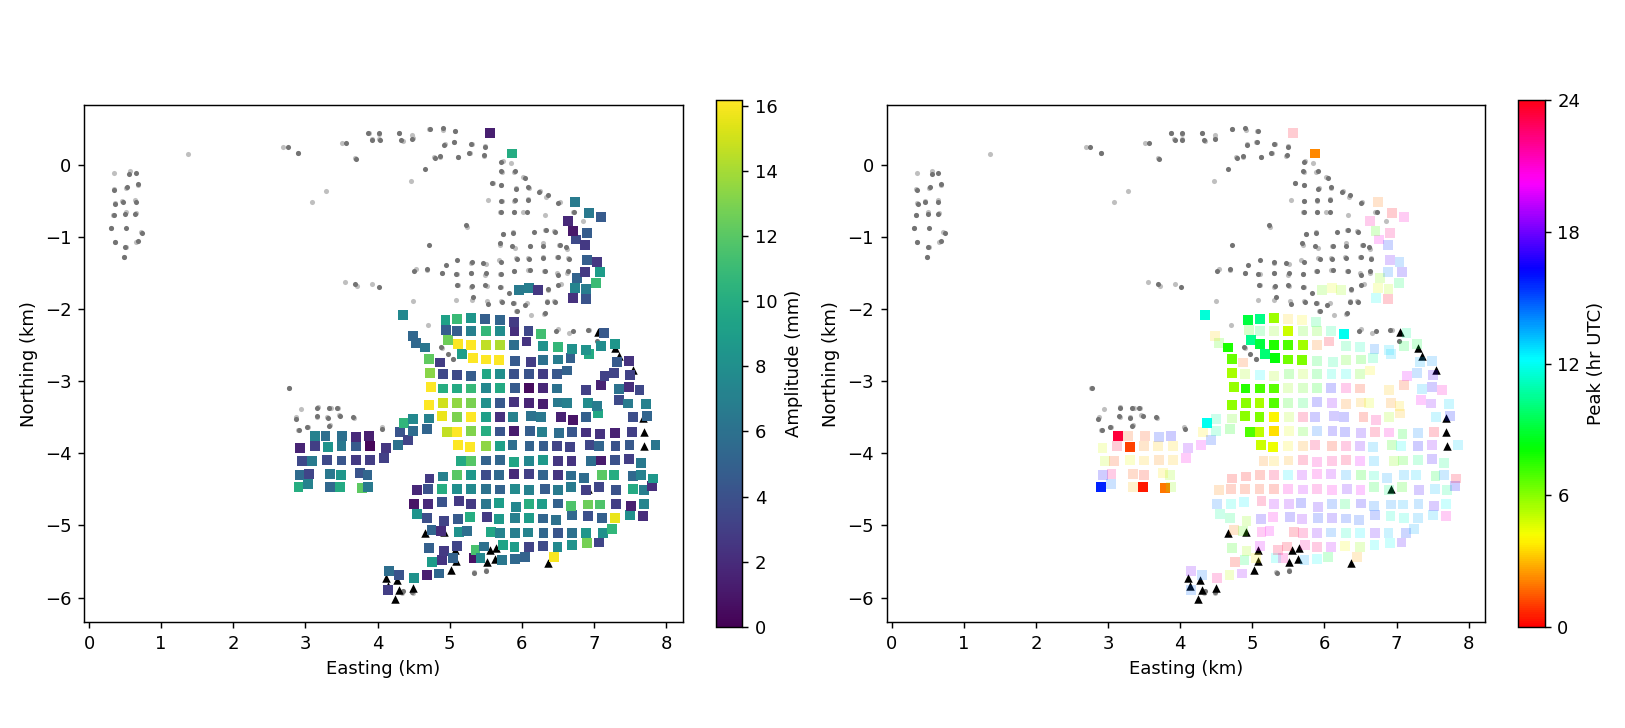
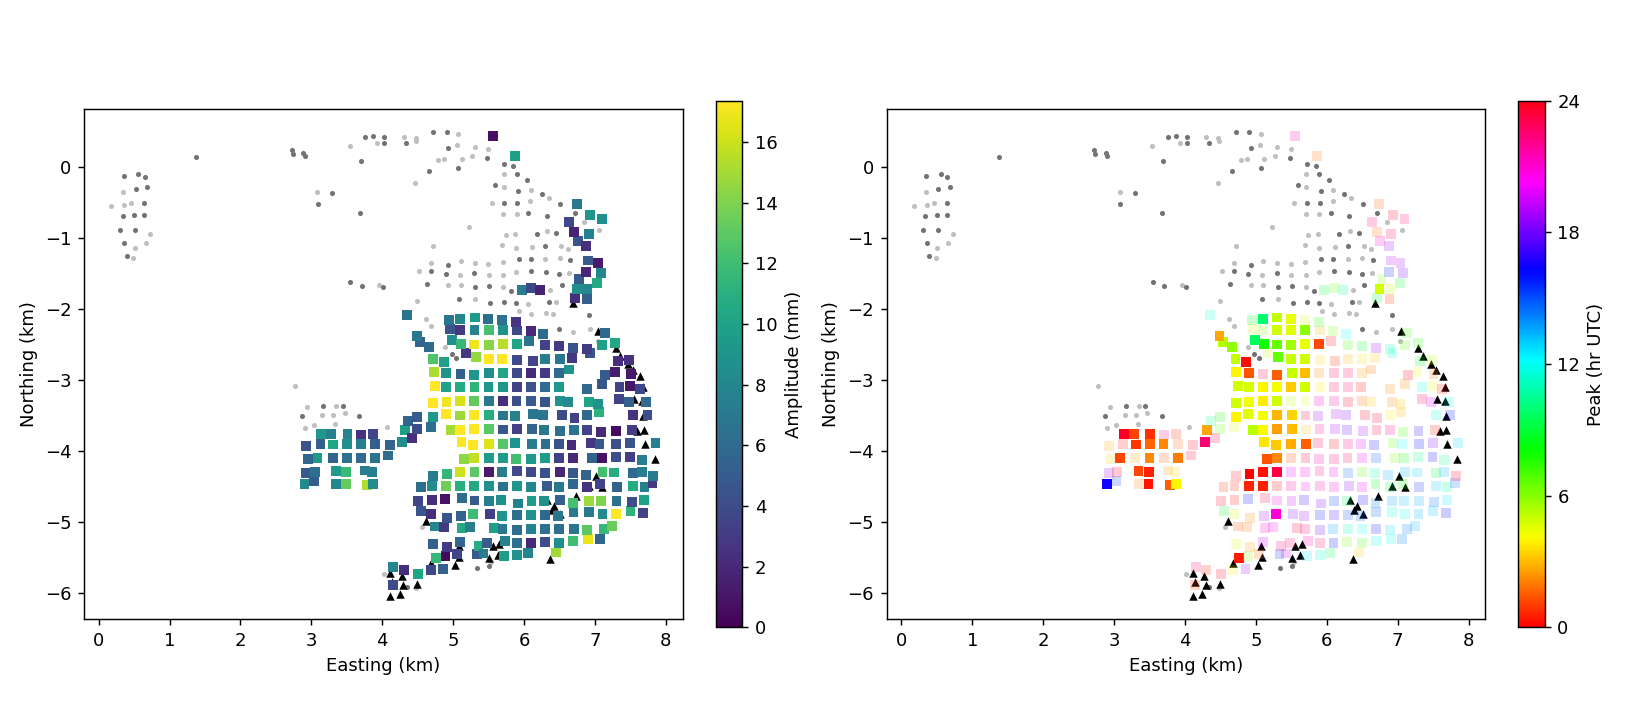
joint: rerun with the stable ground split by whole cells
The fit and held-out halves of the stable ground are now whole 200 m cells,
the ladder is scored on the mean of both antennas, and only the held-out
cells the stationarity calibration did not use are scored.  Every table in
docs/joint.md and figures 40 and 41 are from that rerun: the low held-out
rock scores 0.16-1.69 mm (0.04-0.35 with the pixel-by-pixel split), the far
scores rest on 1-3 cells, 43 of 90 candidate locations come out still, and
the classifier calls 74 % of untouched held-out rock and 20 % of ice still.
The defaults (candidates at or above 2300 m, one shared-noise level) are
re-checked against the alternatives on the new split.

diff --git a/docs/joint.md b/docs/joint.md
@@ -42,7 +42,7 @@ and the held-out half of the stable ground. The stable ground is split into
 its two halves by whole cells, drawn at random, so no held-out cell shares a
 cell with fit rock. Each antenna's series is reduced to one median per cell
 and epoch; a cell with no valid pixel at any epoch of either antenna is
-dropped, and `--stage cells` prints how many. Heights are the 2015 USGS lidar DEM
+dropped. Heights are the 2015 USGS lidar DEM
 (1 m, flown 26 August–27 September 2015; `GPRI_DEM_LIDAR`), with the
 Copernicus 30 m DEM where the lidar has no coverage. At every epoch each value
 of the fit rock, the ice and the candidates is
@@ -63,114 +63,109 @@ growth with range, shared noise) is chosen per campaign by marginal likelihood
 on the fit-half rock. The held-out rock never enters the solve. The path is
 predicted there afterwards, and the difference scores the model.
 
-The numbers in the tables below were computed with the stable ground split
-pixel by pixel; they are to be regenerated with the split by cell.
-
 ## Candidate reference ground
 
-Above 2300 m the reference has 4–7 cells per campaign. The candidates are
-coherent ground off the outlines that the reference rules exclude: inside the
-100 m outline buffer, or at mean coherence 0.6–0.85, at or above 2300 m (85–89
-cells per campaign; the cache keeps candidates of every height and
-`--cand-min-z` picks them). Each gets its own offset, rate and 24 h terms, and its own
-remainder, so a moving candidate describes itself instead of feeding the path.
+Above 2300 m the fit-half reference has 2–5 cells per campaign. The
+candidates are coherent ground off the outlines that the reference rules
+exclude: inside the 100 m outline buffer, or at mean coherence 0.6–0.85, at
+or above 2300 m (85–89 cells per campaign; the cache keeps candidates of
+every height and `--cand-min-z` picks them). Each gets its own offset, rate
+and 24 h terms, and its own remainder, so a moving candidate describes itself
+instead of feeding the path.
 
 Whether a candidate is stationary is decided once per ground location, from
 all seven campaigns together. The tripod position is the same to about 4 m in
 every campaign, so the cell lattice is shared.
 
 - **The stationary spread** for a candidate's motion terms is its own formal
-  variance from the solve, scaled by a factor measured on the held-out rock
-  (`calibrated_spike`). For that one calibration solve the held-out rock is
-  entered as free candidates, and the scored solve never contains it.
+  variance from the solve, scaled by a factor measured on held-out rock
+  (`calibrated_spike`). For that one calibration solve, every other held-out
+  cell is entered as a free candidate; the scored solve never contains them.
 - **Why per candidate.** A candidate beyond the rock carries the path field's
-  extrapolation error in its rate and harmonic. Held-out rock sitting among the
-  fit rock never sees that error.
+  extrapolation error in its rate and harmonic. Held-out rock near the fit
+  rock never sees that error.
 - **The decision.** A two-component mixture (still / moving) sums its
   evidence over campaigns (`shared_stationarity`). The posterior probability
   `p` then sets a prior precision `p / spread` on the candidate's motion terms
   and a remainder `(1 − p) a2`.
 
-The calibration factor itself is a measurement. Across the seven campaigns
-the formal variance of a held-out rock cell's motion terms under-states the
-truth by 14× to 520×, because the model treats path and remainder as
-independent between epochs:
+The calibration factor itself is a measurement. The formal variance of a
+held-out rock cell's motion terms under-states the truth by 15× to 420×,
+because the model treats path and remainder as independent between epochs:
 
 | campaign | path length | range growth | shared noise | calibration (rate, cos, sin) |
 |---|---:|---:|---:|---|
-| `20170713_full` | 500 m | 0.4 /km | 2× | 48, 14, 19 |
-| `20170803_full` | 1000 m | 0 | 2× | 68, 45, 32 |
-| `20170827` | 500 m | 0 | 2× | 518, 51, 77 |
-| `20170913` | 4000 m | 0 | 9× | 99 |
-| `20180709` | 1000 m | 0 | 2× | 77 |
-| `20180808` | 2000 m | 0.4 /km | 9× | 109, 29, 16 |
-| `20190719` | 1000 m | 0 | 2× | 218, 24, 54 |
+| `20170713_full` | 1000 m | 0.4 /km | 9× | 54, 16, 15 |
+| `20170803_full` | 1000 m | 0 | 2× | 156, 62, 66 |
+| `20170827` | 1000 m | 0.4 /km | 9× | 422, 52, 60 |
+| `20170913` | 4000 m | 0 | 9× | 79 |
+| `20180709` | 2000 m | 0 | 9× | 44 |
+| `20180808` | 2000 m | 0.4 /km | 9× | 154, 43, 25 |
+| `20190719` | 500 m | 0 | 2× | 157, 20, 27 |
 
-The calibration uses every other held-out cell; the rest are kept back to
-test the classification (below).
-
-Of 90 candidate locations, 25 come out stationary (p > 0.5): 9 of 28 at
-2300–2500 m, 16 of 48 at 2500–2900 m, none of 13 above 2900 m. They lie at
-2310–2830 m and 7.0–8.8 km slant range.
+Of 90 candidate locations, 43 come out stationary (p > 0.5): 16 of 31 at
+2300–2500 m, 23 of 44 at 2500–2900 m, 1 of 12 above 2900 m. They lie at
+2250–2940 m and 6.9–9.0 km slant range.
 
 ### How well it tells still ground from moving
 
 Ground whose state is known goes through the same mixture, which is not
-refitted for it. The test rock is the half of the held-out rock the
-calibration did not use (187 locations), and the moving ground is the ice
-(340 locations):
+refitted for it: the held-out cells the calibration did not use (176
+locations), and the ice (340 locations).
 
-| evidence used | held-out rock called still | ice called still |
-|---|---:|---:|
-| rate and 24 h terms (the default) | 79 % | 15 % |
-| rate only | 83 % | 23 % |
-| 24 h terms only | 40 % | 8 % |
+| | called still | below 2300 m | 2300–2500 m | above 2500 m |
+|---|---:|---:|---:|---:|
+| held-out rock | 74 % | 73 % of 165 | 3 of 3 | 7 of 8 |
+| ice | 20 % | 26 % of 203 | 17 % of 60 | 9 % of 77 |
 
-With the default, ice above 2500 m is called still at 3 % of 77 locations and
-at 2300–2500 m at 7 % of 60. Held-out rock below 2300 m is called still at
-79 % of 180. The probability, not the call, enters the final solve, as the
-prior precision and the remainder share.
+The evidence is the rate and the 24 h terms together. With the earlier
+pixel-by-pixel split, rate alone called more ice still (23 % against 15 %)
+and the 24 h terms alone called less rock still (40 % against 79 %). The
+probability, not the call, enters the final solve.
 
 ## Scores on held-out rock
 
-Anomaly RMS of the pixel-weighted mean series over the held-out cells (about
-each series' own secular line), and its 24 h amplitude, in mm. Only the
-held-out cells not used to calibrate the stationary spread are scored. Each
-row compares three products on the same cells: the ladder (run on each
-antenna, the two series averaged), the joint inversion without candidates,
-and with them. Both average the two antennas.
-
-The table below is from the earlier setup (all held-out cells, the ladder on
-the upper antenna) and is to be regenerated.
+The stable ground is split into its two halves by whole 200 m cells drawn at
+random, so no held-out cell shares a cell with fit rock. Each antenna's series
+is reduced to one median per cell and epoch, and a cell with no valid pixel at
+any epoch is dropped. Scored: the anomaly RMS of the pixel-weighted mean
+series over the held-out cells the calibration did not use (about each
+series' own secular line), and its 24 h amplitude, in mm. Each entry compares
+the ladder (run on each antenna, the two averaged), the joint inversion
+without candidates, and with them, on the same cells; all three average both
+antennas.
 
 | campaign | above 2500 m, RMS | above 2500 m, 24 h | below 2300 m, RMS | below 2300 m, 24 h |
 |---|---|---|---|---|
-| `20170713_full` | 4.30 / 3.76 / 3.50 | 2.49 / 4.65 / 4.40 | 0.36 / 0.23 / 0.22 | 0.28 / 0.14 / 0.14 |
-| `20170803_full` | 8.73 / 2.53 / 1.82 | 6.92 / 2.52 / 1.55 | 0.89 / 0.29 / 0.29 | 0.80 / 0.34 / 0.34 |
-| `20170827` | 9.36 / 2.61 / 2.85 | 3.01 / 0.48 / 0.53 | 0.89 / 0.27 / 0.27 | 0.51 / 0.07 / 0.07 |
-| `20170913` | 2.39 / 1.04 / 0.65 | — | 0.17 / 0.04 / 0.04 | — |
-| `20180709` | 4.11 / 0.99 / 0.76 | — | 0.21 / 0.23 / 0.23 | — |
-| `20180808` | 19.06 / 7.28 / 7.74 | 17.14 / 7.06 / 8.17 | 0.45 / 0.34 / 0.35 | 0.45 / 0.11 / 0.10 |
-| `20190719` | 9.57 / 6.44 / 5.90 | 10.41 / 7.75 / 7.36 | 0.73 / 0.21 / 0.21 | 0.89 / 0.15 / 0.14 |
+| `20170713_full` | 6.50 / 6.40 / 4.80 | 2.10 / 4.65 / 3.84 | 0.98 / 0.86 / 0.86 | 1.31 / 0.75 / 0.74 |
+| `20170803_full` | 15.28 / 4.25 / 2.98 | 8.57 / 3.86 / 2.98 | 1.51 / 0.91 / 0.91 | 1.41 / 0.68 / 0.67 |
+| `20170827` | 9.47 / 12.98 / 10.52 | 4.25 / 13.27 / 11.06 | 2.28 / 1.63 / 1.69 | 1.31 / 0.46 / 0.52 |
+| `20170913` | 4.71 / 2.92 / 1.57 | — | 0.21 / 0.16 / 0.22 | — |
+| `20180709` | 5.77 / 1.75 / 1.24 | — | 0.36 / 0.37 / 0.37 | — |
+| `20180808` | 20.12 / 7.42 / 3.97 | 20.91 / 8.06 / 1.95 | 1.27 / 1.29 / 1.28 | 0.45 / 0.84 / 0.83 |
+| `20190719` | 11.37 / 5.05 / 4.71 | 8.81 / 3.24 / 4.33 | 1.23 / 1.10 / 1.10 | 1.13 / 0.31 / 0.30 |
 
-Above 2500 m the scores rest on 4–7 held-out cells per campaign.
+Above 2500 m each entry rests on 1–3 held-out cells, below 2300 m on 34–48.
+With the earlier pixel-by-pixel split, where held-out pixels shared cells with
+fit rock, the low rock scored 0.04–0.35 mm; the split by cell scores
+0.16–1.69 mm.
 
 ## The ice
 
 24 h amplitude of the pixel-weighted mean phasor over the ice cells, its hour
 of peak, the median single-cell amplitude, the median per-cell sigma (formal,
-scaled by the held-out calibration above), and the mean rate:
+scaled by the calibration above), and the mean rate:
 
 | campaign | below 2300 m | above 2500 m |
 |---|---|---|
-| `20170713_full` | 4.22 mm at 05.4 h; cell 6.04 ± 5.71 mm; +11.1 m/yr | 3.60 mm at 14.1 h; cell 5.97 ± 12.99 mm; +20.7 m/yr |
-| `20170803_full` | 10.62 mm at 22.9 h; cell 11.67 ± 4.88 mm; +38.5 m/yr | 10.94 mm at 23.9 h; cell 12.54 ± 5.55 mm; +28.1 m/yr |
-| `20170827` | 9.35 mm at 17.5 h; cell 7.80 ± 4.19 mm; +17.2 m/yr | 8.97 mm at 19.5 h; cell 10.68 ± 4.40 mm; +0.7 m/yr |
-| `20180808` | 5.48 mm at 00.4 h; cell 7.14 ± 3.87 mm; +31.9 m/yr | 5.63 mm at 22.3 h; cell 8.51 ± 6.69 mm; +24.6 m/yr |
-| `20190719` | 7.37 mm at 15.6 h; cell 7.47 ± 3.70 mm; +34.3 m/yr | 13.00 mm at 20.4 h; cell 13.75 ± 4.00 mm; +17.7 m/yr |
+| `20170713_full` | 6.49 mm at 02.7 h; cell 7.14 ± 4.56 mm; +10.0 m/yr | 4.86 mm at 13.5 h; cell 6.92 ± 8.14 mm; +12.6 m/yr |
+| `20170803_full` | 10.13 mm at 22.9 h; cell 11.95 ± 6.64 mm; +39.7 m/yr | 11.68 mm at 24.0 h; cell 12.90 ± 7.14 mm; +29.2 m/yr |
+| `20170827` | 7.99 mm at 17.3 h; cell 8.32 ± 4.67 mm; +16.7 m/yr | 4.83 mm at 23.4 h; cell 9.05 ± 5.93 mm; +3.3 m/yr |
+| `20180808` | 5.69 mm at 23.8 h; cell 7.07 ± 4.62 mm; +31.7 m/yr | 6.33 mm at 21.7 h; cell 8.12 ± 7.77 mm; +21.2 m/yr |
+| `20190719` | 7.68 mm at 14.7 h; cell 7.04 ± 3.81 mm; +35.3 m/yr | 10.27 mm at 20.0 h; cell 11.41 ± 3.79 mm; +15.9 m/yr |
 
 Hours are UTC. With the calibrated sigma, a single 200 m cell's 24 h
-amplitude is one to about three and a half times its error.
+amplitude is about one to three times its error.
 
 ![the 24 h harmonic on 200 m cells, 20170803](figures/40_joint_20170803_full.png)
 
@@ -188,33 +183,29 @@ UTC−7.
 
 ## Two choices the held-out rock decided
 
-Two settings were run on all seven campaigns and scored the same way. The
-first is whether candidates are admitted at every height or only at or above
-2300 m. The second is whether the noise the antennas share is one level fitted
-on the rock (`--shared-noise global`) or measured per cell
-(`gpri_tools.jointinv.shared_noise`: each cell's step in the antenna mean,
-minus its neighbours' mean step, less the independent part). Held-out rock
-anomaly RMS, mm, with candidates (the stationary spread calibrated on all of the
-held-out rock in this comparison):
+Two settings were run on all seven campaigns and scored the same way: whether
+candidates are admitted at every height or only at or above 2300 m, and
+whether the noise both antennas share is one level fitted on the rock
+(`--shared-noise global`) or measured per cell
+(`gpri_tools.jointinv.shared_noise`). Held-out rock anomaly RMS with
+candidates, mm, above 2500 m / below 2300 m:
 
 | campaign | ≥2300 m, global | ≥2300 m, per cell | all heights, global | all heights, per cell |
 |---|---|---|---|---|
-| `20170713_full` | 3.53 / 0.22 | 3.50 / 0.36 | 3.52 / 0.25 | 3.90 / 0.50 |
-| `20170803_full` | 1.83 / 0.29 | 2.10 / 0.32 | 1.73 / 0.62 | 2.12 / 1.48 |
-| `20170827` | 2.85 / 0.27 | 3.45 / 0.55 | 2.81 / 1.00 | 3.86 / 2.82 |
-| `20170913` | 0.65 / 0.04 | 0.45 / 0.04 | 0.73 / 0.06 | 0.48 / 0.10 |
-| `20180709` | 0.77 / 0.23 | 0.81 / 0.22 | 0.77 / 0.32 | 0.82 / 0.52 |
-| `20180808` | 7.83 / 0.35 | 7.12 / 0.35 | 7.84 / 0.99 | 7.21 / 1.50 |
-| `20190719` | 5.94 / 0.21 | 7.63 / 0.28 | 5.97 / 0.41 | 7.75 / 0.78 |
+| `20170713_full` | 4.80 / 0.86 | 5.90 / 1.16 | 4.71 / 0.64 | 5.90 / 0.99 |
+| `20170803_full` | 2.98 / 0.91 | 2.83 / 1.57 | 2.96 / 1.37 | 3.01 / 2.71 |
+| `20170827` | 10.52 / 1.69 | 11.85 / 1.79 | 11.70 / 3.20 | 12.50 / 3.70 |
+| `20170913` | 1.57 / 0.22 | 1.42 / 0.16 | 2.05 / 0.33 | 1.74 / 0.28 |
+| `20180709` | 1.24 / 0.37 | 1.23 / 0.33 | 1.23 / 0.61 | 1.22 / 0.90 |
+| `20180808` | 3.97 / 1.28 | 5.09 / 1.55 | 3.89 / 1.32 | 5.56 / 2.06 |
+| `20190719` | 4.71 / 1.10 | 4.37 / 0.97 | 4.77 / 1.49 | 4.67 / 1.60 |
 
-Each entry is held rock above 2500 m / below 2300 m. Admitting candidates at
-every height (435–479 cells, 160–181 of 521 locations found stationary) leaves
-the far rock about where it was and makes the low rock worse on every
-campaign, 0.21–0.35 mm becoming 0.25–1.00 mm. Per-cell shared noise measures
-2–4× each antenna's own noise on rock and 1.7–3.6× on candidates, so the
-candidates are no noisier by that measure. Using it is worse than the single
-fitted level on four campaigns at the low rock. The defaults are therefore
-candidates at or above 2300 m with one shared level, the first column.
+Candidates at every height (435–479 cells, 298 of 521 locations found still)
+make the low rock worse on six of seven campaigns. Per-cell shared noise is
+worse than the single fitted level at the low rock on four campaigns and at
+the far rock on three. It also calls only 50 % of the untouched held-out rock
+still, against 74 %. The defaults are therefore candidates at or above
+2300 m with one shared level, the first column.
 
 ## What it does not do
 
@@ -226,9 +217,10 @@ candidates at or above 2300 m with one shared level, the first column.
   means something is a signal shared by rock and ice. `inject_shared` measures
   how much of one leaks into the ice's harmonic, and a pattern inside the trend
   terms leaks none (`tests/test_jointinv.py`).
-- **Far ice.** Beyond 7.4 km the stable ground is 47–97 pixels per campaign,
-  out to 9.0 km, and the ice reaches 9.2 km. The far ice's harmonic still
-  rests on those pixels and on the candidates found stationary near them.
+- **Far ice.** Above 2300 m the fit rock is 2–5 cells per campaign, out to
+  9.0 km, and the ice reaches 9.2 km. The far ice's harmonic rests on those
+  cells and on the candidates found stationary near them, and the far score
+  on 1–3 held-out cells.
 
 ## Reproduce
 
